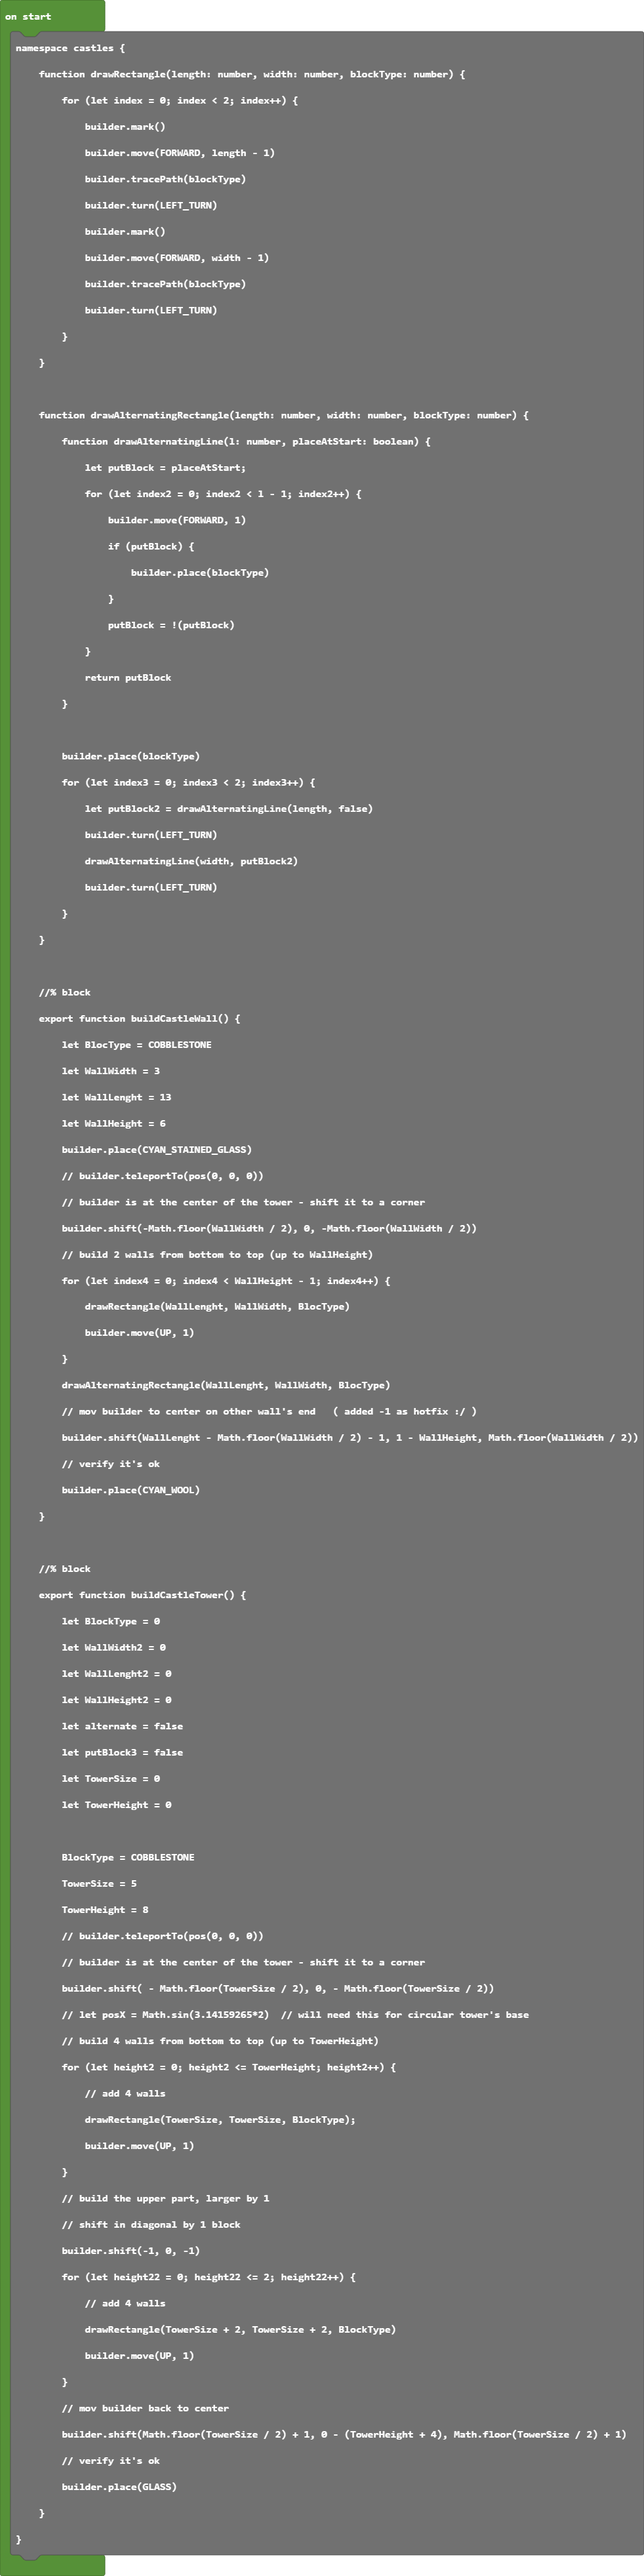
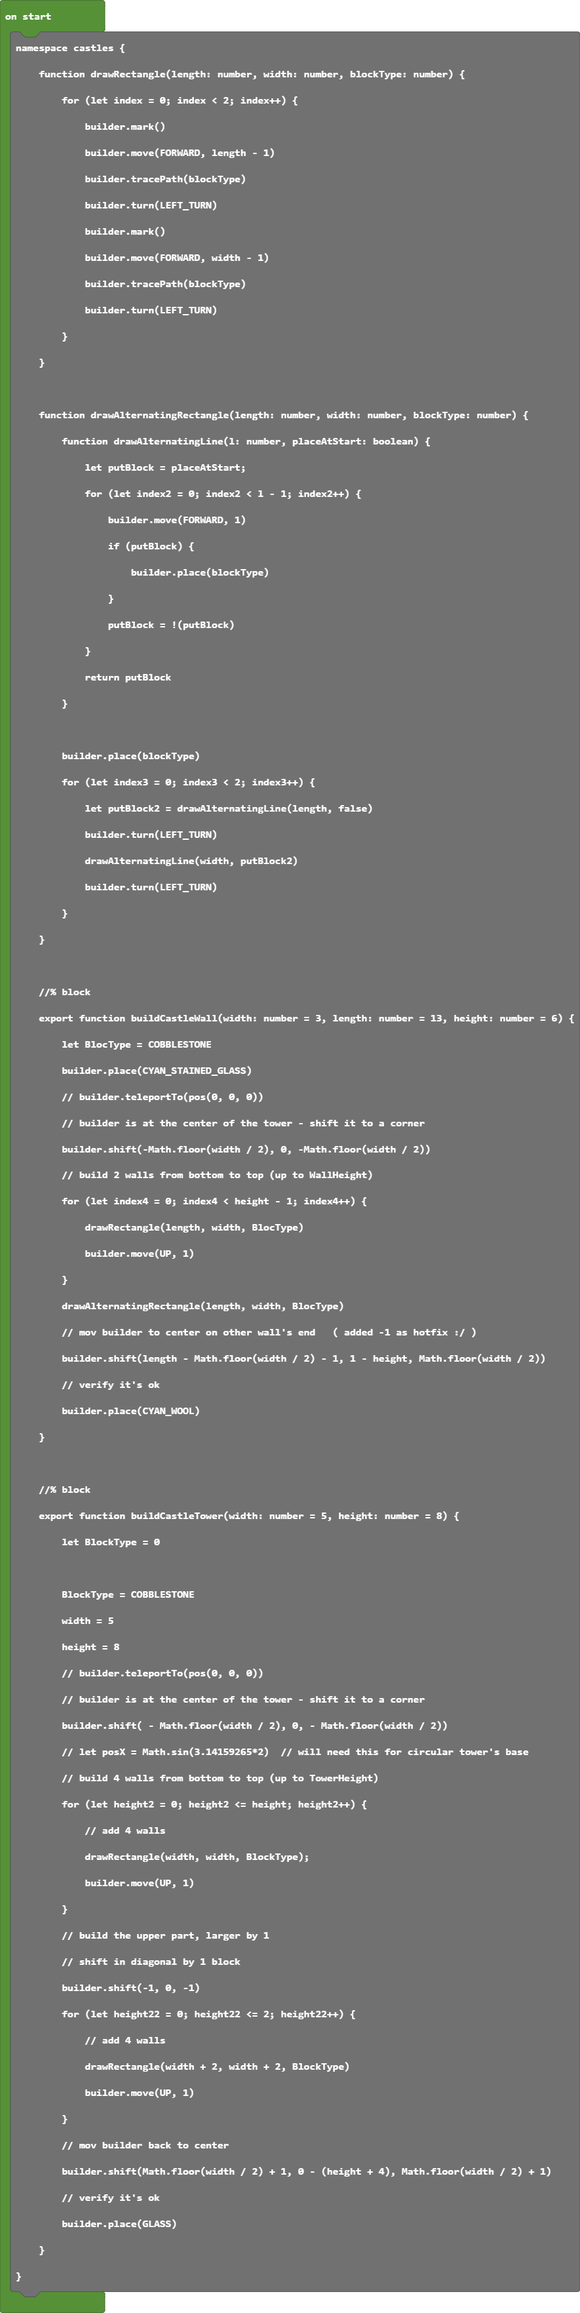
add function documentation and default values.

diff --git a/main.ts b/main.ts
@@ -34,8 +34,15 @@ namespace castles {
         }
     }
 
-    //% block
-    export function buildCastleWall(width: number = 3, length: number = 13, height: number = 6) {
+    /**
+     * Build a wall with the parameterized width, length and height.
+     */
+
+    //% block="build wall width = $width length = $length height = $height"
+    //% width.defl=3
+    //% length.defl=27
+    //% height.defl=6
+    export function buildCastleWall(width: number = 3, length: number = 27, height: number = 6) {
         let BlocType = COBBLESTONE
         builder.place(CYAN_STAINED_GLASS)
         // builder.teleportTo(pos(0, 0, 0))
@@ -53,7 +60,13 @@ namespace castles {
         builder.place(CYAN_WOOL)
     }
 
-    //% block
+    /**
+     * Build a square tower with the parameterized width and height.
+     */
+
+    //% block="build tower width = $width height = $height"
+    //% width.defl=5
+    //% height.defl=8
     export function buildCastleTower(width: number = 5, height: number = 8) {
         let BlockType = 0
 
@@ -82,5 +95,18 @@ namespace castles {
         builder.shift(Math.floor(width / 2) + 1, 0 - (height + 4), Math.floor(width / 2) + 1)
         // verify it's ok
         builder.place(GLASS)
+    }
+
+    /**
+     * Build a simple castle with four towers and four walls.
+     */
+
+    //% block="build a simple castle."
+    export function buildBasicCastle() {
+        for (let index = 0; index <4; index++) {
+            buildCastleWall();
+            buildCastleTower();
+            builder.turn(LEFT_TURN);
+        }
     }
 }
